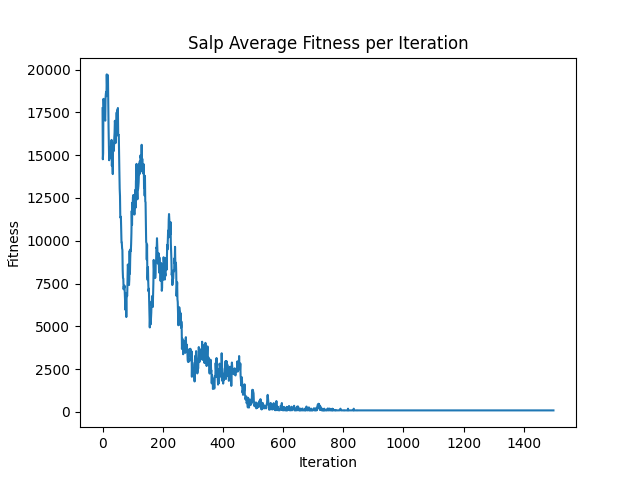
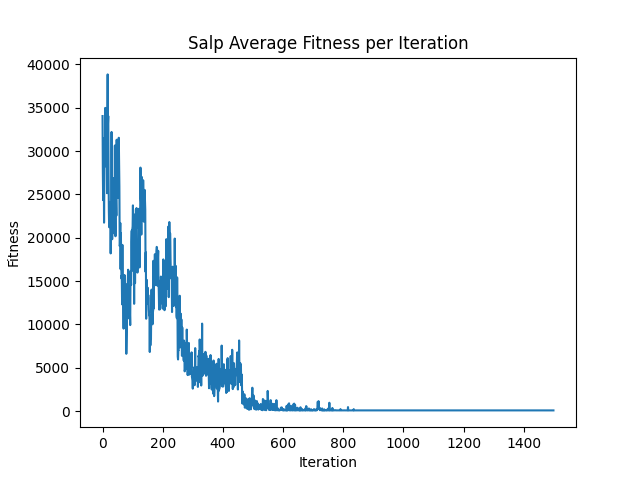
Update charts

diff --git a/SalpSwarm/charts/plot_fit.py b/SalpSwarm/charts/plot_fit.py
@@ -72,7 +72,9 @@ def plotAverageFitnessForAll(testName):
         for row in csv_reader:
             iterations.append([])
             for value in row:
-                iterations[len(iterations)-1].append(min(1e5, float(value)))
+                if float(value) < 1e6:
+                    iterations[len(iterations) -
+                               1].append(min(1e6, float(value)))
 
     plotHist2d(testName, iterations, "averageFitnessForAll")
     plotLine(testName, iterations, "averageFitnessForAll")
